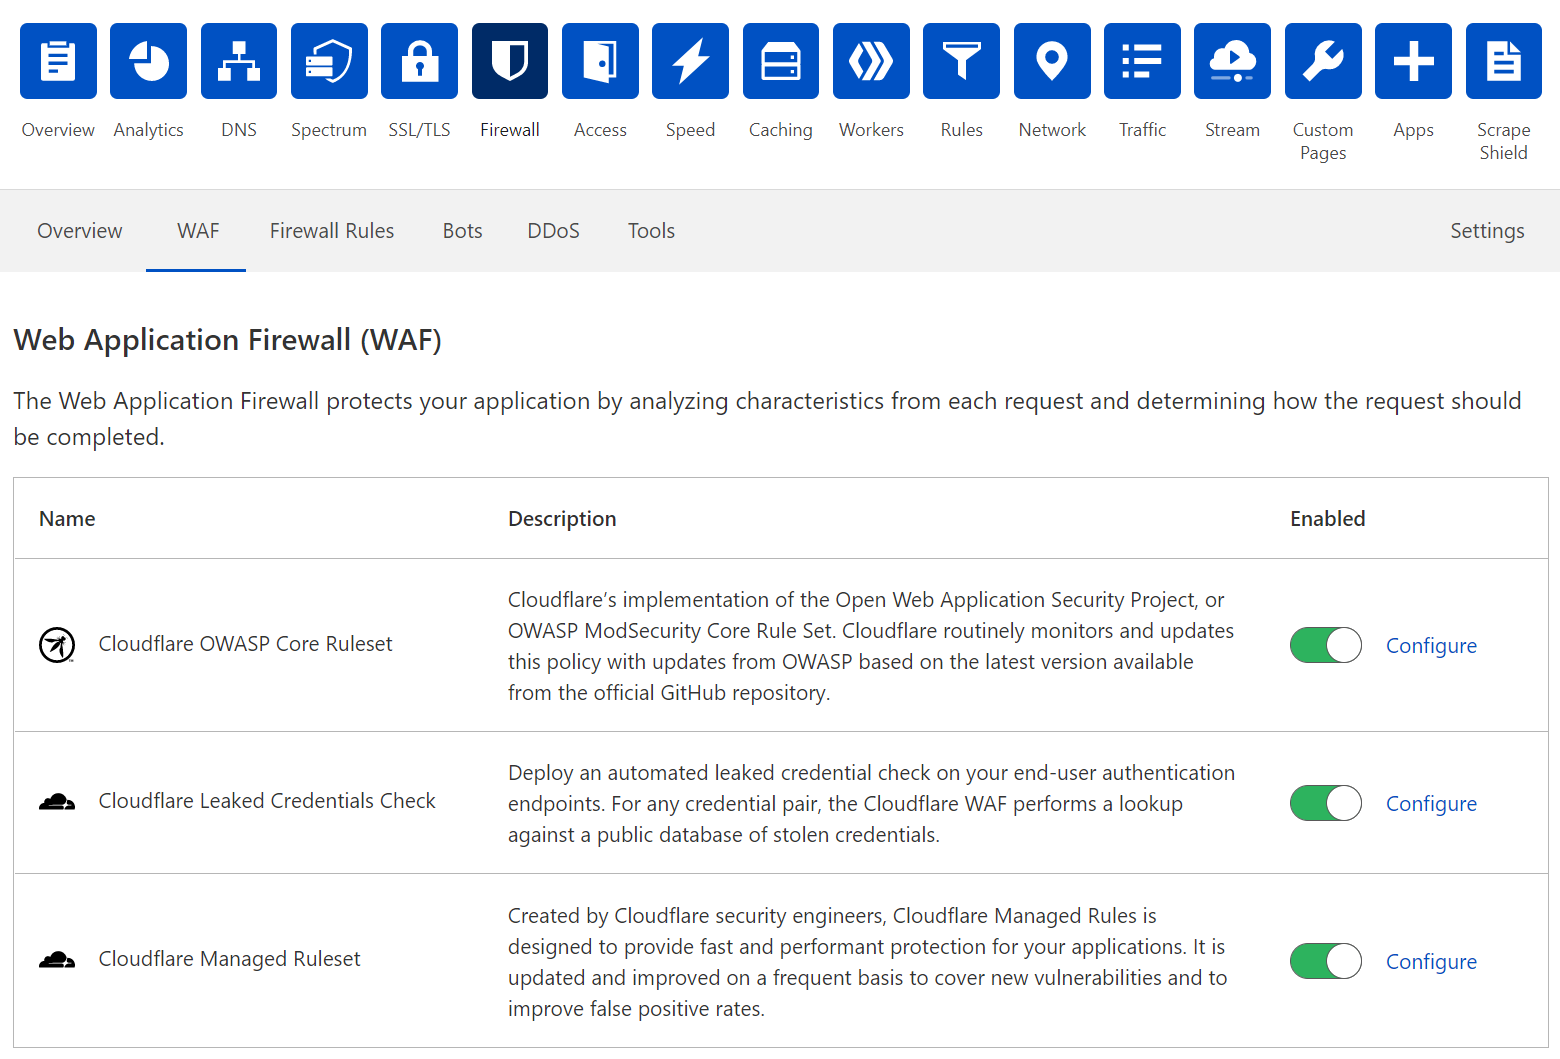
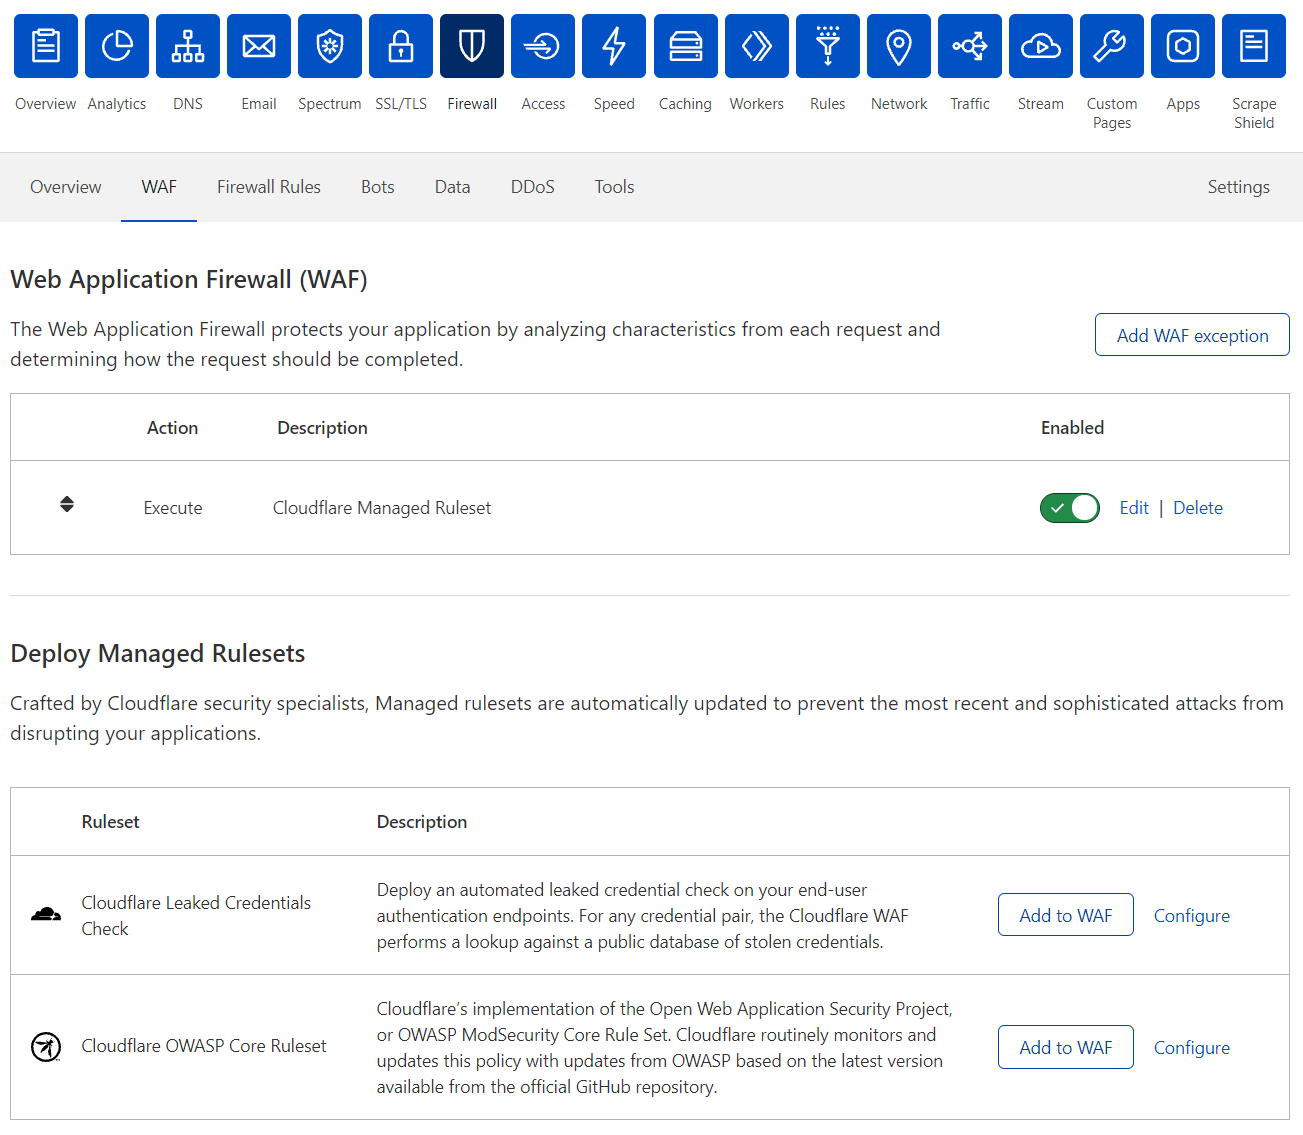
Update WAF Managed Rulesets documentation (#2474)

diff --git a/products/waf/src/content/managed-rulesets/deploy-zone-dashboard.md b/products/waf/src/content/managed-rulesets/deploy-zone-dashboard.md
@@ -10,19 +10,24 @@ You can enable and configure Managed Rulesets for a zone in the **WAF** tab of t
 
 ![WAF tab of Firewall app](../images/waf-managed-rules-tab.png)
 
+## Deploy a Managed Ruleset
+
+Under **Deploy Managed Rulesets**, click **Add to WAF** on the right of a Managed Ruleset to deploy the Managed Ruleset for the current zone.
+
+When you deploy a Managed Ruleset, the WAF adds an _Execute_ rule, displayed under **Web Application Firewall (WAF)**, that deploys the Managed Ruleset.
+
 ## Enable or disable a Managed Ruleset
 
-When you enable a Managed Ruleset in the **WAF** tab under Firewall, you are deploying that Managed Ruleset to the zone-level `http_request_firewall_managed` phase entry point ruleset.
-
-<Aside type="note">
-
-You many not be able to configure the status of certain Managed Rulesets.
-
-</Aside>
-
-In the Web Application Firewall (WAF) interface, click the toggle on the right of a Managed Ruleset to enable or disable all the rules in that ruleset.
+Under **Web Application Firewall (WAF)**, click the **Enabled** toggle on the right of a Managed Ruleset to enable or disable it.
 
 ## Configure a Managed Ruleset
+
+Configure a Managed Ruleset to:
+
+* Define specific field values for one or more rules (for example, configure a rule with an action different from the action configured by Cloudflare)
+* Disable one or more rules
+
+To skip one or more rules or WAF Managed Rulesets, [add a WAF exception](/managed-rulesets/waf-exceptions).
 
 <Aside type="note">
 
@@ -36,11 +41,11 @@ To configure rule field values for all the rules in a Managed Ruleset:
 
 1. Go to **Firewall** > **WAF**.
 
-1. On the right of the Managed Ruleset you want to configure, click **Configure**.
+1. Under **Web Application Firewall (WAF)** and on the right of the _Execute_ rule that deploys the Managed Ruleset you want to configure, click **Edit**.
 
 1. Under **Ruleset configuration**, set one or more rule fields from the available values in the drop-down lists.
 
-    For example, select the action to perform for all the rules in the ruleset from the **Ruleset Action** drop-down list.
+    For example, select the action to perform for all the rules in the ruleset from the **Ruleset action** drop-down list.
 
     ![Configure Managed Ruleset](../images/waf-configure-ruleset.png)
 
@@ -56,7 +61,7 @@ To view the rules of a Managed Ruleset:
 
 1. Go to **Firewall** > **WAF**.
 
-1. On the right of the Managed Ruleset you want to browse, click **Configure**.
+1. Under **Web Application Firewall (WAF)** and on the right of the _Execute_ rule that deploys the Managed Ruleset you want to browse, click **Edit**.
 
 1. Click **Browse rules**.
 
@@ -117,11 +122,3 @@ Do the following:
     </Aside>
 
 1. Click **Save**.
-
-## Phases of deployed Managed Rulesets
-
-When you enable a Managed Ruleset in the **WAF** tab, you are deploying that Managed Ruleset to the zone-level `http_request_firewall_managed` phase.
-
-Other Managed Rulesets, like DDoS Managed Rulesets, are deployed to a different phase. Check the specific Managed Ruleset documentation for details.
-
-For more information on phases, see [Phases](https://developers.cloudflare.com/ruleset-engine/#phases).

diff --git a/products/waf/src/content/managed-rulesets/index.md b/products/waf/src/content/managed-rulesets/index.md
@@ -3,15 +3,15 @@ pcx-content-type: concept
 order: 3
 ---
 
-# Available Managed Rulesets
+# Managed Rulesets
 
 Cloudflare provides the following Managed Rulesets in the WAF:
 
 <TableWrap><table style="table-layout:fixed; width:100%;">
   <thead>
     <tr>
-      <td style='width:30%; white-space:normal'><strong>Ruleset</strong></td>
-      <td style='width:70%; word-wrap:break-word; white-space:normal'><strong>Description</strong></td>
+      <th style='width:30%; white-space:normal'><strong>Ruleset</strong></th>
+      <th style='width:70%; word-wrap:break-word; white-space:normal'><strong>Description</strong></th>
     </tr>
   </thead>
   <tbody>
@@ -48,8 +48,8 @@ The following rulesets run in the response phase:
 <TableWrap><table style="table-layout:fixed; width:100%;">
   <thead>
     <tr>
-      <td style='width:30%; white-space:normal'><strong>Ruleset</strong></td>
-      <td style='width:70%; word-wrap:break-word; white-space:normal'><strong>Description</strong></td>
+      <th style='width:30%; white-space:normal'><strong>Ruleset</strong></th>
+      <th style='width:70%; word-wrap:break-word; white-space:normal'><strong>Description</strong></th>
     </tr>
   </thead>
   <tbody>
@@ -59,3 +59,11 @@ The following rulesets run in the response phase:
     </tr>
   </tbody>
 </table></TableWrap>
+
+## Phases of deployed Managed Rulesets
+
+When you enable a Managed Ruleset in the **WAF** tab, you are deploying that Managed Ruleset to the zone-level `http_request_firewall_managed` phase.
+
+Other Managed Rulesets, like DDoS Managed Rulesets, are deployed to a different phase. Check the specific Managed Ruleset documentation for details.
+
+For more information on phases, see [Phases](https://developers.cloudflare.com/ruleset-engine/#phases).
